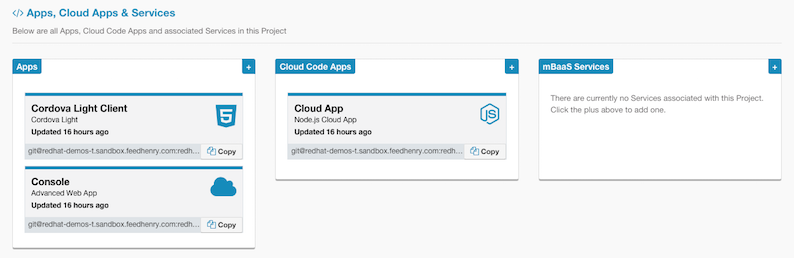
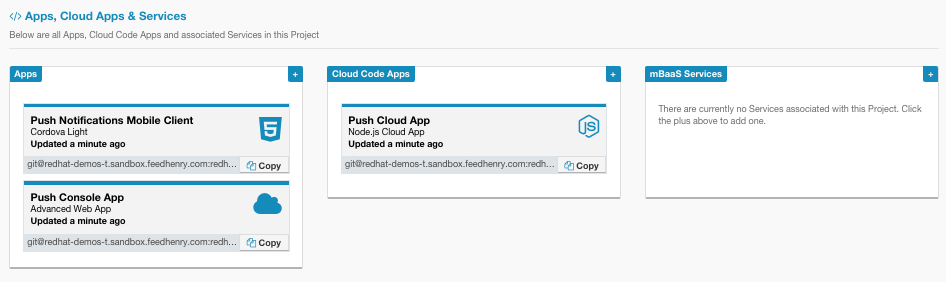
Tweaking the blog post and adding content

diff --git a/_posts/2015-04-20-feedhenry-push-templates.md b/_posts/2015-04-20-feedhenry-push-templates.md
@@ -20,11 +20,11 @@ To build a project based on this template:
 
 ![choose template](/img/news/2015-04-20-feedhenry-push-templates/1.png)
 
-Now you have 3 apps one cloud app and two client apps.
+Now you have three apps one Cloud Code App and two Client Apps.
 
 ![app structure](/img/news/2015-04-20-feedhenry-push-templates/5.png)
 
-The server is a simple CRUD application for Categories. The client app called console is the "management inteface" here you can create and delete Categories. These categories are used by the mobile client to "subscribe" to. For example I have a sports news site and I push messages about different sports to the mobile users. The users "subscribe" to different sports they want to receive notifications about.
+The _Push Cloud App_ is a simple server-side CRUD application for categories. The _Push Console App_ is a "management inteface" where you create and delete these categories. These categories are used by the _Push Notifications Mobile Client_ to "subscribe" to. For example I have a sports news site and I push messages about different sports to the mobile users. The users _subscribes_ to different sports they want to receive notifications about.
 
 With this generated project all that is left todo is connect the Unified Push Server to this project, first go to openshift.com and create an UPS instance, search on AeroGear pick a name and "Create Application". For more information on how to set up a unified push server on openshift have a look at our [documentation](/docs/unifiedpush/ups_userguide/index/#openshift). Now you have a running UPS on openshift you need to login and create an "application" that will be used by your Feedhenry apps to send push notifications. Note down the `Application ID`, `Master Secret` and the `Server URL` as we going to need those later on.
 
@@ -54,11 +54,16 @@ Then in the project click on the "Cloud App" and select "Environment variables" 
 
 ![environment variable](/img/news/2015-04-20-feedhenry-push-templates/6.png)
 
-Now that that is all setup, the "Cloud App" can use the "GUID" to fetch the "Service Connector", that connects to UPS to send the messages. Let's fire up a browser and open the "Console", create a couple of Categories for instance: Football, Rugby and Basketball. Now build and install the mobile client on a device and select the categories you want to receive. Send a message and see how they arrive on the mobile client.
+Now that that is all setup, the "Cloud App" can use the "GUID" to fetch the "Service Connector", that connects to UPS to send the messages.
+
+Let's fire up a browser and open the _Push Console App_ to create a couple of categories for instance: Football, Rugby and Basketball: 
 
 ![console](/img/news/2015-04-20-feedhenry-push-templates/8.png)
 
-Last but not least the mobile client has a file called `push-config.json` you'll need to update the `Variant ID` and `Variant Secret` and for android also the projectID for each platform, so that it can receive messages. Register for a specific category and see messages arrive when you send them from the console.
+Now go to your _Push Notifications Mobile Client_ and open the file called `push-config.json`. You'll need to update the _Variant ID_ and _Variant Secret_ for each platform, so that it can register itself with the UnifiedPush Server in order to receive messages. For Android you also need to specify the _projectID_ inside of that JSON file.  Finally build and install the _Push Notifications Mobile Client_ on a device and select the categories you want to receive.
+
+
+Now go back to the _Push Console App_ and send a message. If all worked well, you will see how the push notifications arrive on the mobile client. 
 
 ![mobile app received notification](/img/news/2015-04-20-feedhenry-push-templates/9.png)
 
